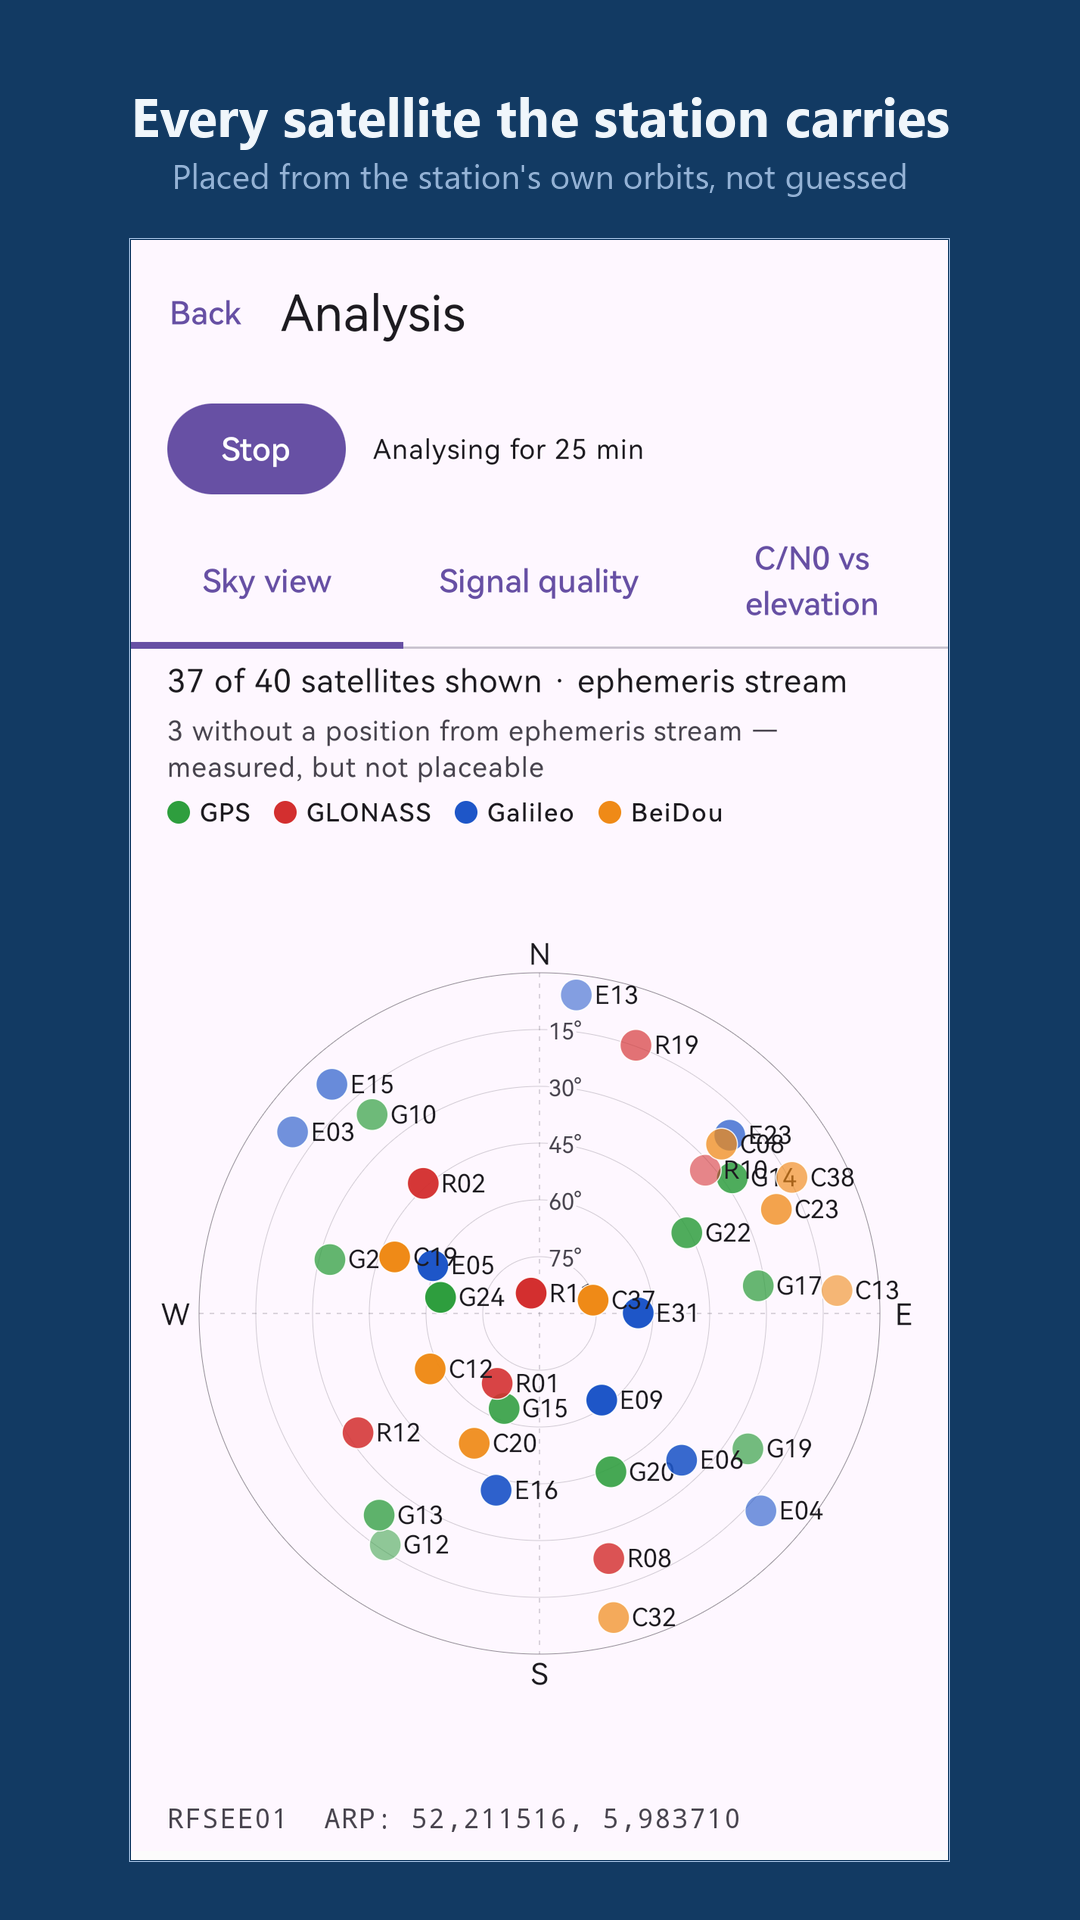
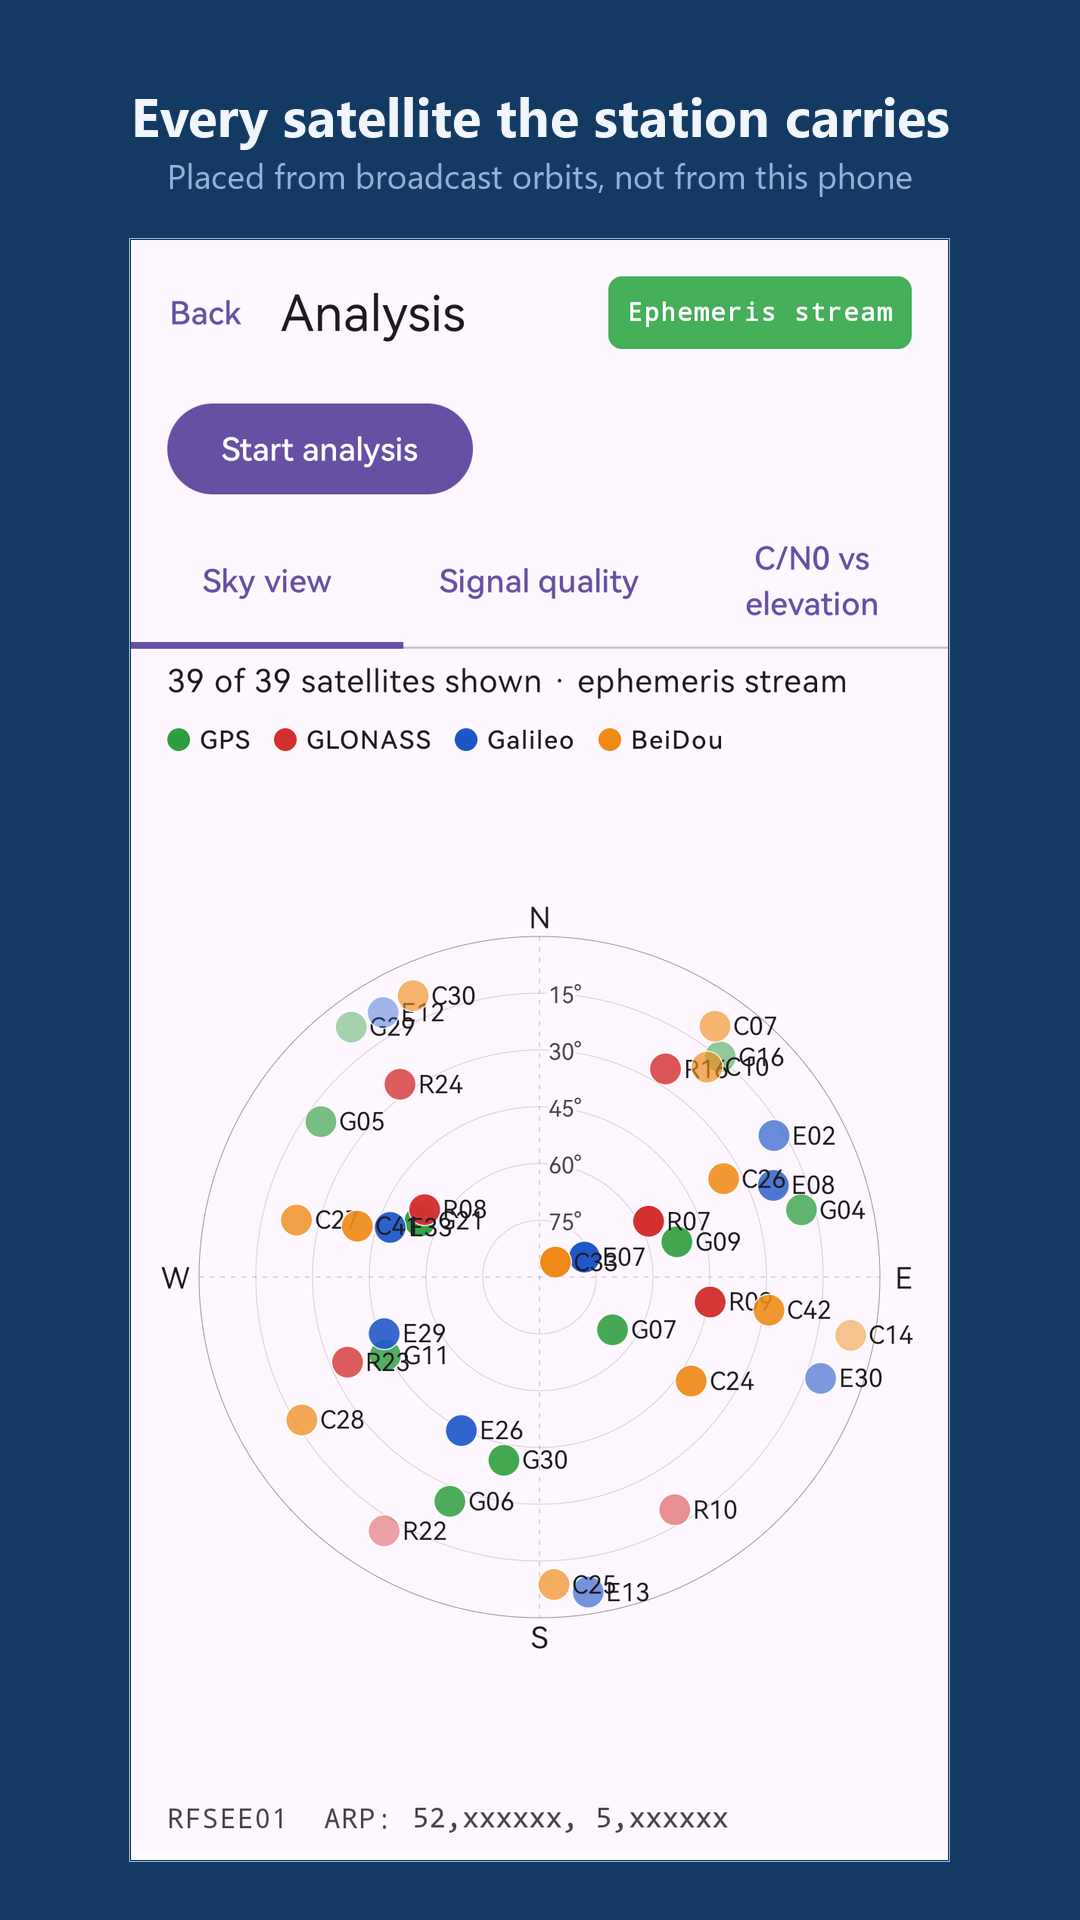
Mask the password, and keep the station's position out of the listing
A credential on screen is a credential in every screenshot, over every
shoulder and in every recording -- one capture of this field was taken
on the way to a store listing and deleted before framing. Masked by
default in both editions, with a Show toggle that never persists,
because a password typed on a phone keyboard and never checked is the
other way this field goes wrong.

The sky view's footer reports the ARP to six decimals, about a tenth of
a metre, and this station stands where its owner lives. Both editions'
sky screenshots now read ARP: 52,xxxxxx, 5,xxxxxx -- the shape of what
the app reports, without the value.

Redaction boxes carry their own fill and ink: this one sits on the page,
not on the connection tile.

diff --git a/android/app/src/main/java/nl/pe1mew/ntripanalyser/MainActivity.kt b/android/app/src/main/java/nl/pe1mew/ntripanalyser/MainActivity.kt
@@ -35,6 +35,8 @@ import androidx.compose.ui.res.stringResource
 import androidx.compose.ui.graphics.Color
 import androidx.compose.ui.text.font.FontFamily
 import androidx.compose.ui.text.input.KeyboardType
+import androidx.compose.ui.text.input.PasswordVisualTransformation
+import androidx.compose.ui.text.input.VisualTransformation
 import androidx.compose.ui.text.font.FontWeight
 import androidx.compose.ui.unit.dp
 import androidx.compose.ui.unit.sp
@@ -1281,6 +1283,9 @@ private fun SettingsDialog(
     var mountpoint by remember { mutableStateOf(initial.mountpoint) }
     var user by remember { mutableStateOf(initial.user) }
     var password by remember { mutableStateOf(initial.password) }
+    // Never remembered across openings: the dialog reverts to
+    // masked every time it is shown.
+    var showPassword by remember { mutableStateOf(false) }
     var lat by remember { mutableStateOf(initial.latitude.toString()) }
     var lon by remember { mutableStateOf(initial.longitude.toString()) }
     var gga by remember { mutableStateOf(initial.sendGga) }
@@ -1390,9 +1395,27 @@ private fun SettingsDialog(
                     label = { Text(stringResource(R.string.field_user)) },
                     singleLine = true,
                     keyboardOptions = KeyboardOptions(keyboardType = KeyboardType.Uri))
+                // Masked by default, with a way to look.
+                //
+                // A credential on screen is a credential in every
+                // screenshot, over every shoulder and in every screen
+                // recording -- one was caught on the way to a store
+                // listing. Revealing it is still a tap away, because a
+                // password typed on a phone keyboard and never checked
+                // is the other way this field goes wrong.
                 OutlinedTextField(password, { password = it },
                     label = { Text(stringResource(R.string.field_password)) },
                     singleLine = true,
+                    visualTransformation =
+                        if (showPassword) VisualTransformation.None
+                        else PasswordVisualTransformation(),
+                    trailingIcon = {
+                        TextButton(onClick = { showPassword = !showPassword }) {
+                            Text(stringResource(
+                                if (showPassword) R.string.action_hide
+                                else R.string.action_show))
+                        }
+                    },
                     keyboardOptions = KeyboardOptions(keyboardType = KeyboardType.Uri))
                 // Said here rather than only in the documentation: the
                 // credential is stored encrypted but travels as NTRIP

diff --git a/tools/make_store_shots.py b/tools/make_store_shots.py
@@ -36,8 +36,13 @@ CAPTIONS = {
              "Eight checks, one verdict, and the number behind each"),
     'elevation': ("What the antenna is really doing",
                   "C/N0 against elevation, over a whole session"),
+    # Not "the station's own orbits": that is one of three sources, and
+    # neither edition's captures used it -- pro's came from an ephemeris
+    # stream, free's from an imported navigation file. What is true of
+    # every one of them, and is the distinction that matters, is that the
+    # positions are broadcast orbits rather than this handset's guess.
     'sky': ("Every satellite the station carries",
-            "Placed from the station's own orbits, not guessed"),
+            "Placed from broadcast orbits, not from this phone"),
     'signal': ("Signal strength, satellite by satellite",
                "Averaged in power, as it should be"),
     'sourcetable': ("The caster's own sourcetable",
@@ -45,6 +50,14 @@ CAPTIONS = {
 }
 
 ORDER = ['main', 'elevation', 'sky', 'signal', 'sourcetable']
+
+TILE_BG = (230, 224, 233)      # the connection tile's surface colour
+TILE_INK = (29, 27, 32)        # and its text
+PAGE_BG = (254, 247, 255)      # the page behind it, under the sky plot
+PAGE_INK = (73, 69, 79)        # and the muted footer text on it
+
+# All four measured from the captures rather than taken from the theme:
+# a fill that is nearly right is more obvious than one that is wrong.
 
 # ── Redaction ────────────────────────────────────────────────────────
 # A store listing is marketing, and the caster in these captures is a
@@ -58,16 +71,51 @@ ORDER = ['main', 'elevation', 'sky', 'signal', 'sourcetable']
 # pixels rather than guessed. Re-measure if the layout changes; a box
 # that has drifted paints over the wrong line, which is obvious the
 # moment you look at the result.
-REDACTIONS = {
-    'main': [
-        # (box, replacement, monospace, size) -- the connection tile's
-        # caster line, which is drawn in monospace by the app.
-        ((84, 752, 470, 796), 'ntrip.example.com:2101', True, 44),
-    ],
-}
+# Keyed by edition, because the box is a position and the two editions
+# do not put the tile in the same place: free's verdict banner carries
+# two extra lines once a check has finished ("Held for 60 s", "Finished
+# after 90 s") and pushes the connection tile 66 px down. One shared box
+# painted over free's mountpoint instead of its caster -- the drift this
+# file warns about, met on the first re-use.
+#
+# Two things are hidden. The **caster address**, because a listing seen
+# by thousands should not advertise a host that belongs to a person; and
+# the **ARP coordinates** in the sky view's footer, which are the
+# station's own position to six decimals -- about a tenth of a metre,
+# and this station stands where its owner lives. The mountpoint and the
+# measurements stay: they are what the screenshot is for.
+#
+# The replacement keeps the shape of what it hides -- degrees, comma
+# decimal separator, six places -- so the reader still sees what the app
+# reports, without the value.
+ARP_HIDDEN = '52,xxxxxx, 5,xxxxxx'
 
-TILE_BG = (230, 224, 233)      # the tile's own surface colour
-TILE_INK = (29, 27, 32)        # and its text
+REDACTIONS = {
+    'pro': {
+        'main': [
+            # (box, replacement, monospace, size, fill, ink) -- the
+            # connection tile's caster line, monospace in the app.
+            ((84, 752, 470, 796), 'ntrip.example.com:2101', True, 44,
+             TILE_BG, TILE_INK),
+        ],
+        'sky': [
+            ((368, 2152, 812, 2202), ARP_HIDDEN, True, 40,
+             PAGE_BG, PAGE_INK),
+        ],
+    },
+    'free': {
+        'main': [
+            ((79, 806, 466, 864), 'ntrip.example.com:2101', True, 44,
+             TILE_BG, TILE_INK),
+        ],
+        # Same geometry in both editions: the footer is drawn by the same
+        # composable, below a plot of fixed height.
+        'sky': [
+            ((368, 2152, 812, 2202), ARP_HIDDEN, True, 40,
+             PAGE_BG, PAGE_INK),
+        ],
+    },
+}
 
 
 def mono(size):
@@ -79,15 +127,15 @@ def mono(size):
     return font(size)
 
 
-def redact(shot, name):
-    """Paint out anything in the capture that names a real host."""
-    for box, text, monospace, size in REDACTIONS.get(name, []):
+def redact(shot, name, edition):
+    """Paint out anything in the capture that should not be published."""
+    for box, text, monospace, size, bg, ink in             REDACTIONS.get(edition, {}).get(name, []):
         draw = ImageDraw.Draw(shot)
-        draw.rectangle(box, fill=TILE_BG)
+        draw.rectangle(box, fill=bg)
         f = mono(size) if monospace else font(size)
         # Sit the replacement on the same baseline as what it replaces.
         top = box[1] + (box[3] - box[1] - size) // 2
-        draw.text((box[0] + 4, top), text, font=f, fill=TILE_INK)
+        draw.text((box[0] + 4, top), text, font=f, fill=ink)
     return shot
 
 
@@ -107,10 +155,11 @@ def centred(draw, y, text, f, fill):
     draw.text(((CANVAS[0] - w) / 2, y), text, font=f, fill=fill)
 
 
-def frame(capture_path, title, subtitle):
+def frame(capture_path, title, subtitle, edition):
     """One store screenshot: redacted, cropped, captioned."""
     shot = Image.open(capture_path).convert('RGB')
-    shot = redact(shot, os.path.splitext(os.path.basename(capture_path))[0])
+    shot = redact(shot, os.path.splitext(os.path.basename(capture_path))[0],
+                  edition)
     shot = shot.crop((0, STATUS_BAR, shot.width, shot.height - NAV_BAR))
 
     canvas = Image.new('RGB', CANVAS, FIELD)
@@ -141,6 +190,11 @@ def main():
         print(__doc__)
         return 1
     src, edition = sys.argv[1], sys.argv[2]
+    if edition not in REDACTIONS:
+        print('unknown edition %r: no redaction boxes are measured '
+              'for it, and framing without them would publish the '
+              'real host' % edition)
+        return 1
     root = os.path.dirname(os.path.dirname(os.path.abspath(__file__)))
     out_dir = os.path.join(root, 'docs', 'images', 'store', edition)
     os.makedirs(out_dir, exist_ok=True)
@@ -153,7 +207,7 @@ def main():
         n += 1
         title, subtitle = CAPTIONS[name]
         out = os.path.join(out_dir, '%d-%s.png' % (n, name))
-        frame(path, title, subtitle).save(out)
+        frame(path, title, subtitle, edition).save(out)
         print('wrote', os.path.relpath(out, root))
 
     if n < 2:

diff --git a/design/work-items/play-listing.md b/design/work-items/play-listing.md
@@ -165,14 +165,53 @@ re-capture. Its box was measured from the pixels; if the tile's layout
 changes, re-measure, because a box that has drifted paints over the
 wrong line.
 
-**Free's set is still to shoot**, and the same rule should hold. Free's
-saved connection is currently a public third-party mountpoint; pointing
-it at the author's own station first needs its credentials typed into
-that edition.
+**Free — four, shot on 2026-08-14**, on a release build, same station
+and the same redaction:
 
-A fifth shot — the sourcetable browser — is worth adding when
-convenient. It is hidden while a run is going, so it cannot be captured
-without ending one.
+| | Screen | What it shows |
+|---|---|---|
+| 1 | STATION OK, held 60 s, finished after 90 s | the verdict and the first three checks |
+| 2 | C/N0 versus elevation | 2984 samples from one 90 s check |
+| 3 | Sky view | 38 of 41 satellites, from an imported navigation file |
+| 4 | Signal quality | per-satellite C/N0 |
+
+**The redaction box is per edition now.** Free's verdict banner carries
+two extra lines once a check has finished, which pushes the connection
+tile 66 px down; the single shared box would have painted over free's
+*mountpoint* instead of its caster — the drift the tool's own comment
+warns about, met the first time it was re-used. `REDACTIONS` is keyed by
+edition, and an unknown edition is refused rather than framed
+unredacted.
+
+**The fifth shot was dropped, for both editions.** The sourcetable
+dialog is titled with the caster's host, and this caster lists two
+mountpoints — thin evidence for a caption promising "every mountpoint,
+its format and its constellations".
+
+**The settings dialog used to show the password in clear text**, which
+is how a capture of it was taken during this session — deleted before
+framing. The field is masked by default now, with a Show toggle. Even
+so, nothing on that screen belongs in a listing.
+
+**The ARP coordinates are redacted from both sky shots.** The footer
+reports the station's own position to six decimals, and this station
+stands where its owner lives; it is replaced with `52,xxxxxx, 5,xxxxxx`,
+which keeps the shape of what the app reports without the value.
+
+⚠ **Still visible, and your call**: free's `1-main.png` carries *"GGA
+uplink from 52,20000, 5,97000"* — the configured uplink position, not
+the station's. It is rounded to about a kilometre, so it names a
+district rather than a house. Say the word and it gets a box too.
+
+**The sky caption was corrected.** It read "placed from the station's own
+orbits, not guessed", which neither edition's capture actually shows:
+pro's came from the ephemeris stream and free's from a navigation file,
+because `RFSEE01` broadcasts no orbits. It now reads "placed from
+broadcast orbits, not from this phone" — true of all three sources, and
+the distinction that matters. Pro's sky shot was re-taken on 2026-08-14
+to carry it (39 of 39 from the ephemeris stream); pro's other three are
+unchanged, since its elevation shot is a 24-minute watch that a 90 s
+re-take would only make worse.
 
 Store icon: `docs/images/icon-free-512.png` and `icon-pro-512.png`,
 generated by `tools/make_icons.py`.

diff --git a/changelog.md b/changelog.md
@@ -6,6 +6,52 @@ The format is based on [Keep a Changelog](https://keepachangelog.com/), and this
 
 ## [Unreleased]
 
+### Changed — the password field is masked, and the station's position is not published
+
+Two things a screenshot session turned up, both about what ends up on
+someone else's screen.
+
+**The password field showed the credential in clear text**, in both
+editions. A credential on screen is a credential in every screenshot,
+over every shoulder and in every screen recording -- one capture of it
+was taken on the way to a store listing and deleted before framing.
+It is masked by default now, with a **Show** toggle, because a password
+typed on a phone keyboard and never checked is the other way this field
+goes wrong. The toggle never persists: the dialog opens masked.
+
+**The sky view's footer carries the station's ARP to six decimals** --
+about a tenth of a metre, and this station stands where its owner lives.
+The framing tool now replaces it with `52,xxxxxx, 5,xxxxxx`, keeping the
+shape of what the app reports without the value, in both editions'
+screenshots. Redaction boxes carry their own fill and ink colours now,
+since this one sits on the page rather than on the connection tile.
+
+### Added — the free edition's store screenshots
+
+Four, shot on a release build against the author's own station: the
+STATION OK verdict with its first three checks, C/N0 against elevation
+(2984 samples from one 90 s check), the sky view placing 38 of 41
+satellites from an imported navigation file, and signal quality.
+
+Three things the shooting turned up, all now fixed rather than
+remembered:
+
+- **The redaction box is per edition.** Free's verdict banner grows two
+  lines once a check finishes, pushing the connection tile 66 px down,
+  so the single shared box would have painted over free's *mountpoint*
+  instead of its caster. `REDACTIONS` is keyed by edition, and an
+  unknown edition is now refused rather than framed unredacted.
+- **The sky caption claimed something no capture showed.** "Placed from
+  the station's own orbits" — but this station broadcasts none: pro's
+  came from the ephemeris stream, free's from a navigation file. It now
+  reads "placed from broadcast orbits, not from this phone", which is
+  true of all three sources and is the distinction that matters. Pro's
+  sky shot was re-taken to carry it, 39 of 39 from the stream.
+- **The sourcetable shot was dropped** from both sets. Its dialog is
+  titled with the caster's host, and this caster lists two mountpoints —
+  thin evidence for a caption promising every mountpoint.
+
+
 ### Changed — the release work items and the security review moved out of the published folder
 
 Enabling GitHub Pages made every file in `docs/` a web page, including
